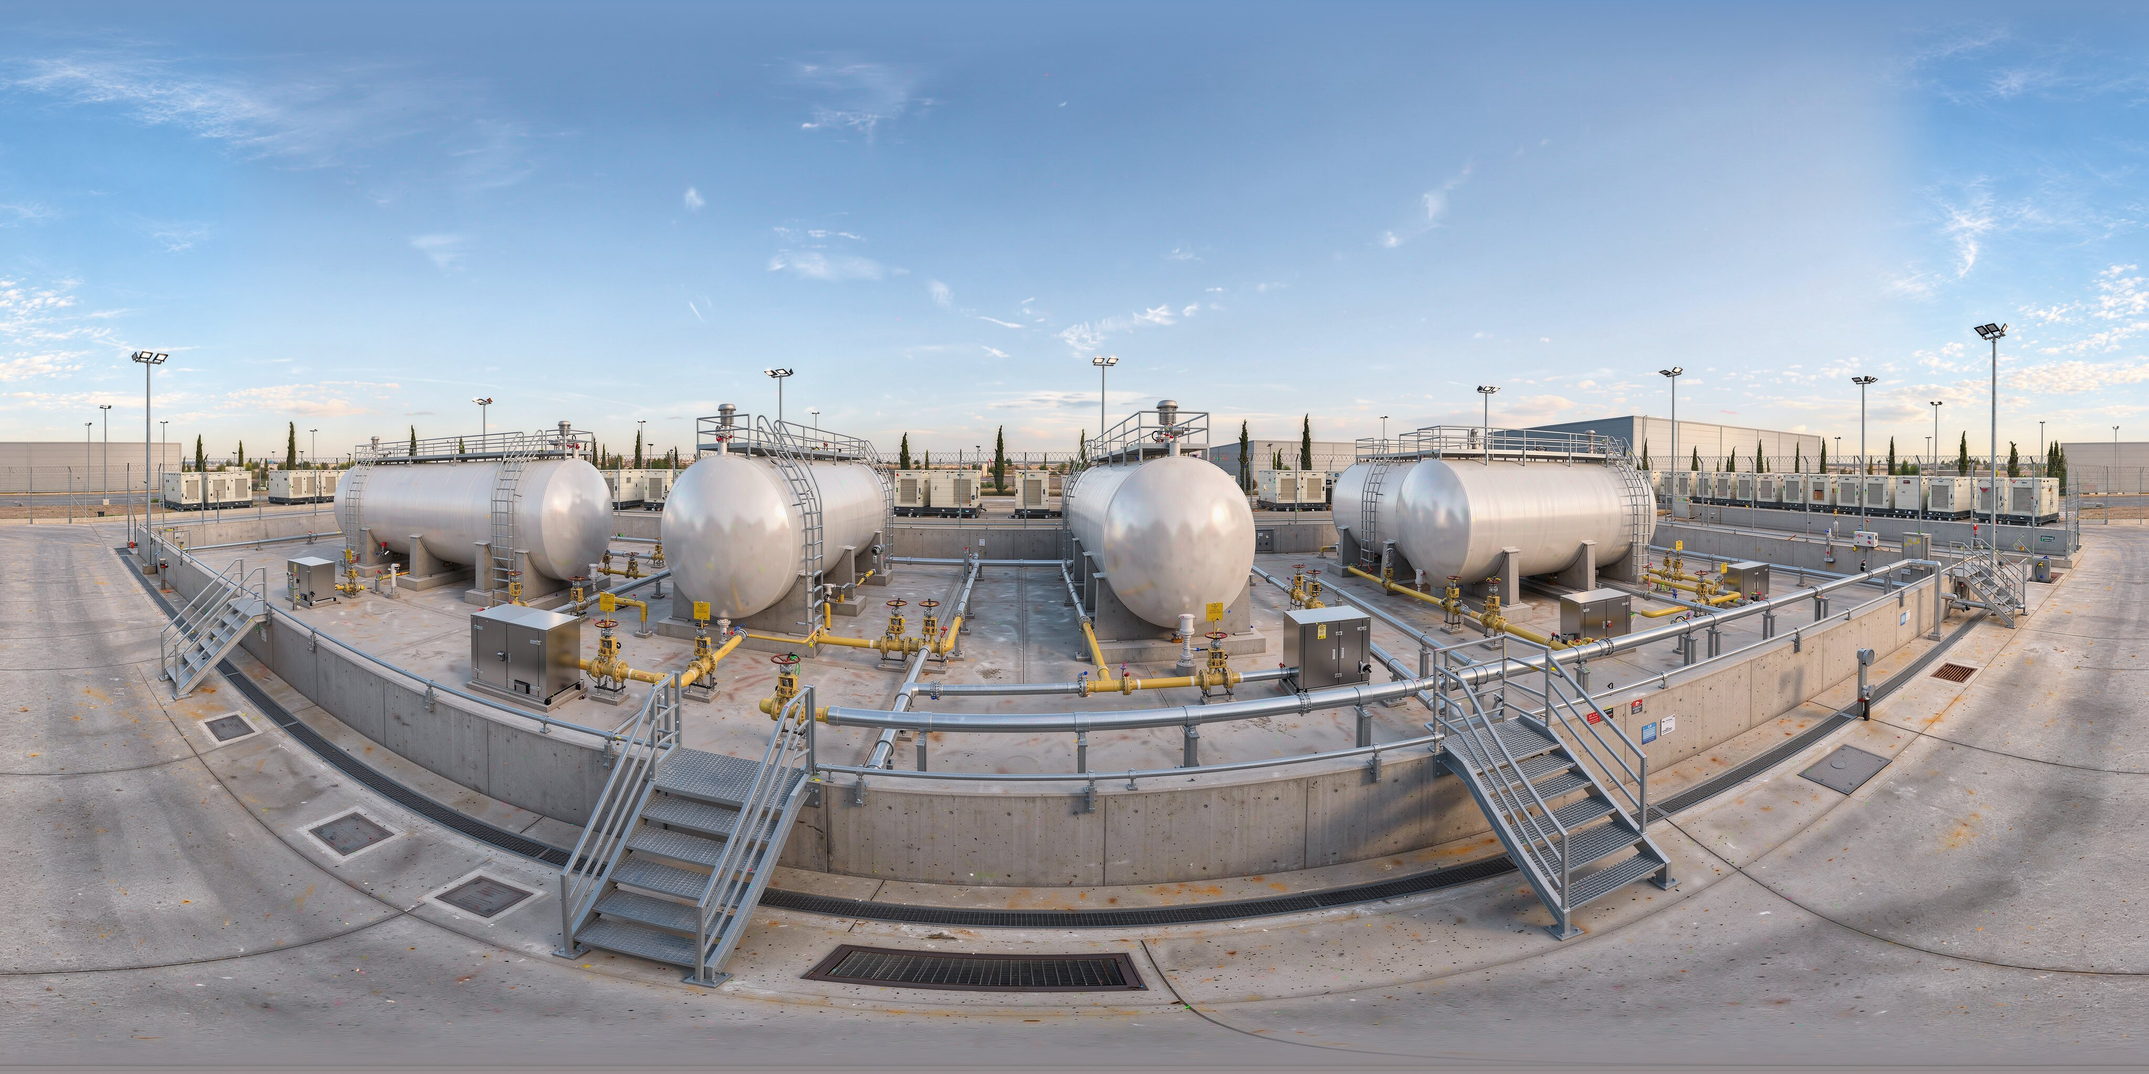
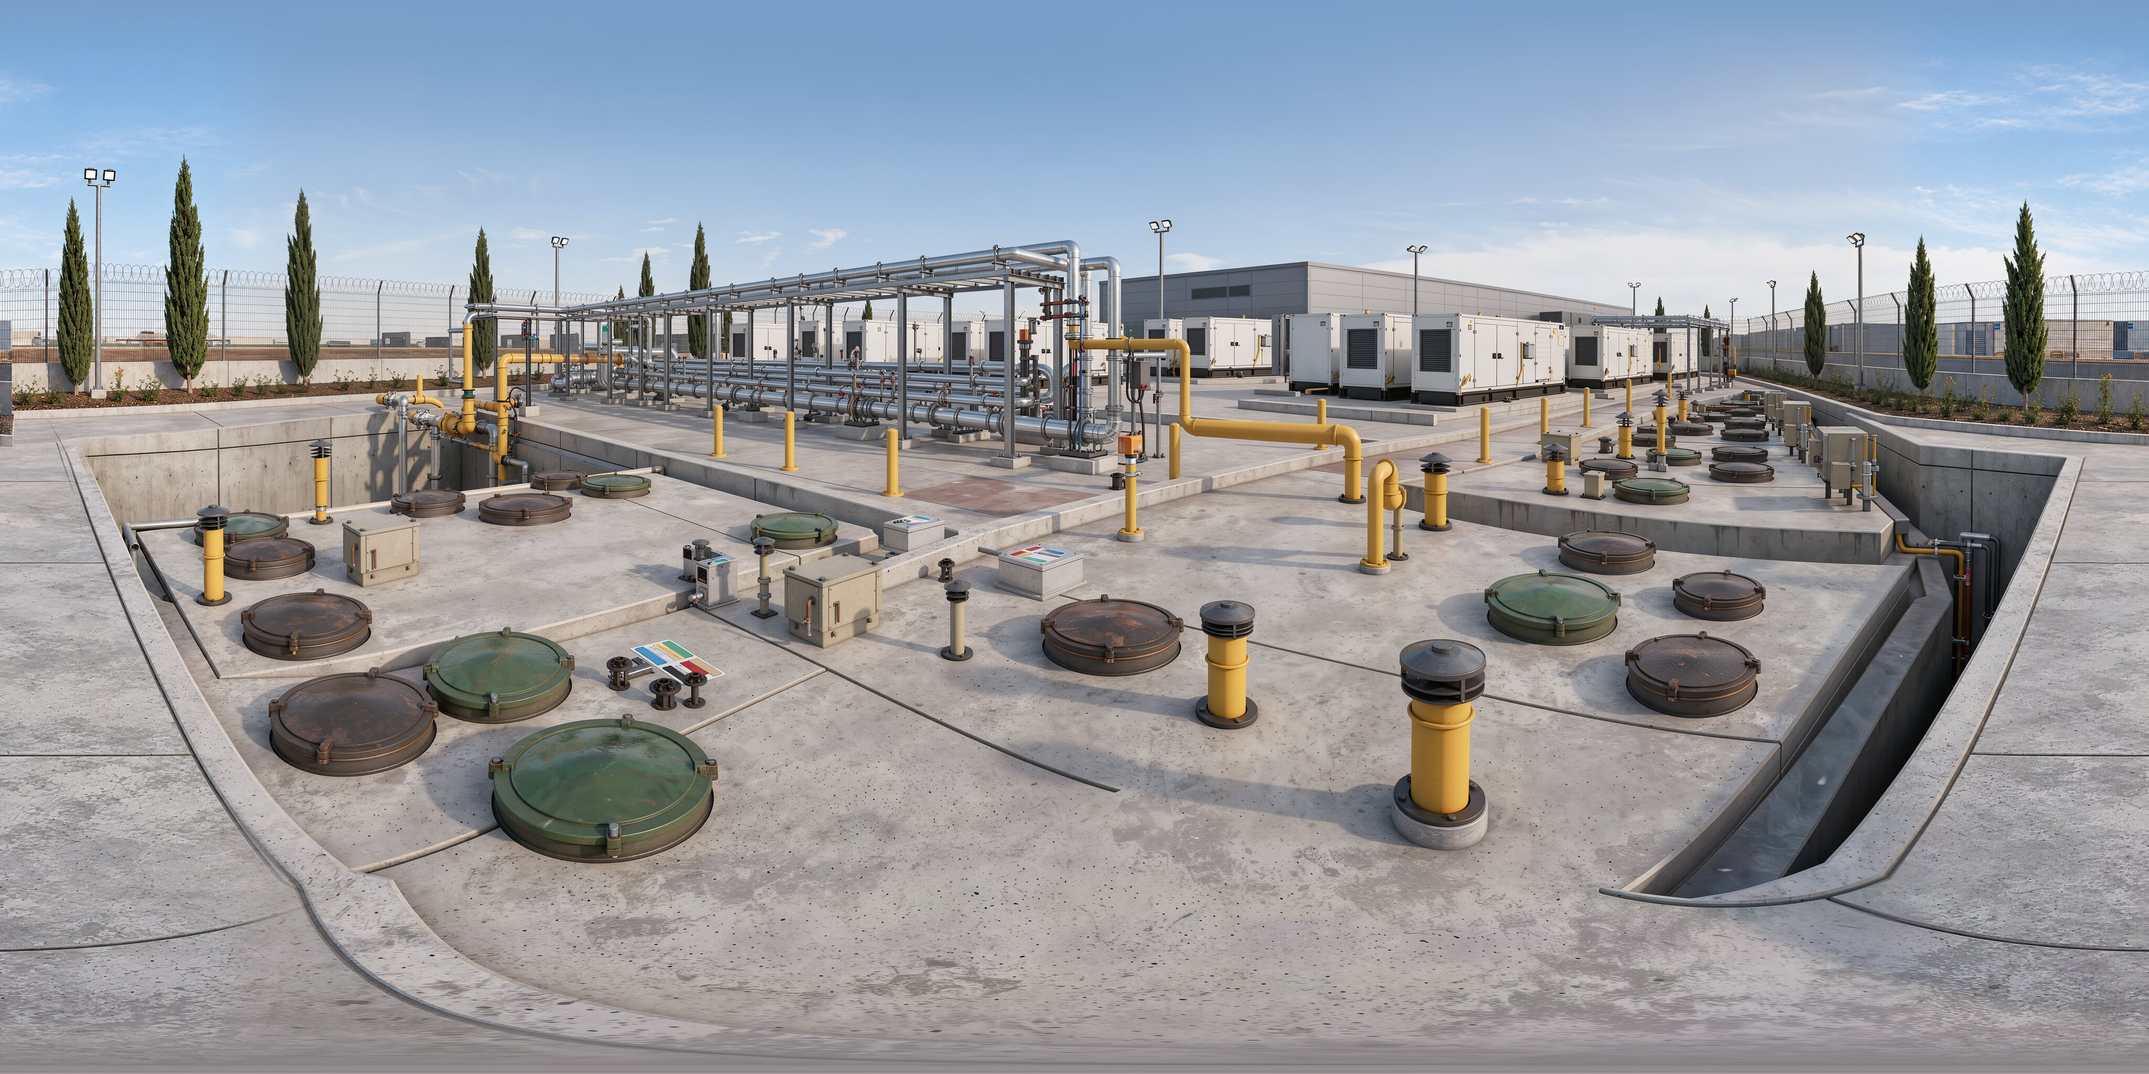
סיור 360°: מיכלים תת-קרקעיים, גרסה באנגלית וקישורי שפה
- חוות המכלים צולמה מחדש בהדמיה: רחבת בטון מעל מיכלים קבורים, עם שוחות, אוורור, נקודות מילוי ומדידה וניטור דליפות, כמו שמתואר בעמוד חוות השרתים.
- en/services/data-center-360.html: הסיור באנגלית (LTR), וקטע "360° tour" בעמוד חוות השרתים באנגלית.
- קישורי hreflang בין שתי השפות, והדף באנגלית נוסף ל-sitemap.xml.

Claude-Session: https://claude.ai/code/session_01DvXskKy3Bh4HRpRLxZMhy5

diff --git a/en/services/data-center-360.html b/en/services/data-center-360.html
@@ -1,28 +1,28 @@
 <!DOCTYPE html>
-<html lang="he" dir="rtl">
+<html lang="en" dir="ltr">
 <head>
   <meta charset="UTF-8">
   <meta name="viewport" content="width=device-width, initial-scale=1, viewport-fit=cover">
-  <title>סיור 360° בחוות גנרטורים | ש.גוטובסקי בע״מ</title>
-  <meta name="description" content="סיור 360 מעלות בהדמיה של חוות גנרטורים לחוות שרתים: חצר הגנרטורים, חוות המכלים, עמדת הפריקה, חדר המשאבות ואולם הגנרטור.">
-  <link rel="canonical" href="https://gotovski.co.il/services/data-center-360.html">
+  <title>360° tour of a generator farm | S. Gotovski Ltd.</title>
+  <meta name="description" content="A 360-degree rendered tour of a data center generator farm: the generator yard, the tank farm, the unloading bay, the pump room and the generator hall.">
+  <link rel="canonical" href="https://gotovski.co.il/en/services/data-center-360.html">
   <link rel="alternate" hreflang="he" href="https://gotovski.co.il/services/data-center-360.html">
   <link rel="alternate" hreflang="en" href="https://gotovski.co.il/en/services/data-center-360.html">
   <link rel="alternate" hreflang="x-default" href="https://gotovski.co.il/services/data-center-360.html">
   <meta property="og:type" content="website">
-  <meta property="og:locale" content="he_IL">
-  <meta property="og:site_name" content="ש.גוטובסקי בע״מ">
-  <meta property="og:title" content="סיור 360° בחוות גנרטורים">
-  <meta property="og:description" content="הדמיה: מהמכלים ועמדת הפריקה, דרך חדר המשאבות, ועד הגנרטור.">
-  <meta property="og:url" content="https://gotovski.co.il/services/data-center-360.html">
+  <meta property="og:locale" content="en_US">
+  <meta property="og:site_name" content="S. Gotovski Ltd.">
+  <meta property="og:title" content="360° tour of a generator farm">
+  <meta property="og:description" content="A rendering: from the tanks and the unloading bay, through the pump room, to the generator.">
+  <meta property="og:url" content="https://gotovski.co.il/en/services/data-center-360.html">
   <meta property="og:image" content="https://gotovski.co.il/images/tour/generator-farm-preview.webp">
   <meta name="twitter:card" content="summary_large_image">
-  <link rel="icon" href="../images/logo.png" type="image/png">
+  <link rel="icon" href="../../images/logo.png" type="image/png">
   <link rel="preconnect" href="https://fonts.googleapis.com">
   <link rel="preconnect" href="https://fonts.gstatic.com" crossorigin>
   <link href="https://fonts.googleapis.com/css2?family=Heebo:wght@400;500;700&display=swap" rel="stylesheet">
   <link rel="stylesheet" href="https://cdnjs.cloudflare.com/ajax/libs/pannellum/2.5.6/pannellum.css">
-  <link rel="preload" as="image" href="../images/tour/generator-yard.jpg">
+  <link rel="preload" as="image" href="../../images/tour/generator-yard.jpg">
   <style>
 
 :root{
@@ -34,7 +34,7 @@
 html,body{height:100%}
 body{margin:0;background:var(--onyx);color:var(--paper);font-family:var(--display);overflow:hidden}
 #pano{position:absolute;inset:0}
-.ui{direction:rtl;position:absolute;z-index:5;display:flex;gap:10px;align-items:center}
+.ui{direction:ltr;position:absolute;z-index:5;display:flex;gap:10px;align-items:center}
 .top{top:calc(14px + env(safe-area-inset-top,0px));inset-inline:16px;justify-content:space-between;align-items:flex-start;flex-wrap:wrap}
 .card{background:var(--glass);backdrop-filter:blur(10px);-webkit-backdrop-filter:blur(10px);border:1px solid var(--line);border-radius:14px;padding:12px 16px;max-width:min(420px,100%)}
 .eyebrow{font-size:11px;font-weight:700;letter-spacing:.18em;color:var(--accent-2)}
@@ -66,8 +66,8 @@ h1{margin:4px 0 2px;font-size:clamp(20px,3.2vw,28px);font-weight:700;line-height
 .hs .dot{position:absolute;left:-22px;top:-22px;width:44px;height:44px;border-radius:50%;background:rgba(15,14,18,.55);border:2px solid var(--paper);display:grid;place-items:center;box-shadow:0 0 0 6px rgba(79,187,234,.25);transition:transform .25s}
 .hs .dot svg{width:20px;height:20px;fill:none;stroke:var(--paper);stroke-width:2.2;stroke-linecap:round;stroke-linejoin:round}
 .hs:hover .dot{transform:scale(1.12);background:var(--accent)}
-.hs .lbl{position:absolute;top:30px;left:50%;transform:translateX(-50%);white-space:nowrap;direction:rtl;font:700 13px/1 var(--display);color:var(--paper);background:var(--glass);border:1px solid var(--line);border-radius:999px;padding:7px 12px}
-.mapbox{top:calc(76px + env(safe-area-inset-top,0px));left:16px}
+.hs .lbl{position:absolute;top:30px;left:50%;transform:translateX(-50%);white-space:nowrap;direction:ltr;font:700 13px/1 var(--display);color:var(--paper);background:var(--glass);border:1px solid var(--line);border-radius:999px;padding:7px 12px}
+.mapbox{top:calc(76px + env(safe-area-inset-top,0px));right:16px}
 .map{position:relative;width:220px;max-width:42vw;padding:8px}
 .map svg{display:block;width:100%;height:auto}
 .map .pt{cursor:pointer}
@@ -87,26 +87,26 @@ h1{margin:4px 0 2px;font-size:clamp(20px,3.2vw,28px);font-weight:700;line-height
   </style>
 </head>
 <body>
-<div id="pano" role="img" aria-label="תמונת 360 מעלות של חצר גנרטורים בחוות שרתים: שורות גנרטורים דיזל במכולות משני צדי כביש שירות, צנרת דלק צהובה, גדר ביטחון ומבנה חוות השרתים בקצה"></div>
+<div id="pano" role="img" aria-label="360-degree image of a data center generator farm"></div>
 <div class="ui top">
   <div class="card">
-    <div class="eyebrow">ש.גוטובסקי · תשתיות דלק לחוות שרתים</div>
-    <h1 id="scene-title">חצר הגנרטורים</h1>
-    <div class="meta"><span id="scene-desc">גנרטורי גיבוי במכולות, צנרת אספקה והחזרה לכל יחידה, ומבנה החווה בקצה הכביש.</span> <span class="badge">הדמיה · טיוטה</span></div>
+    <div class="eyebrow">S. Gotovski · Fuel systems for data centers</div>
+    <h1 id="scene-title">The generator yard</h1>
+    <div class="meta"><span id="scene-desc">Containerized backup generators, a supply and return line to each unit, and the data center building at the end of the road.</span> <span class="badge">Rendering</span></div>
   </div>
   <div class="tools">
-    <a class="back" href="data-center.html"><svg viewBox="0 0 24 24" aria-hidden="true"><path d="M5 12h14M12 5l7 7-7 7"/></svg><span>חזרה לחוות שרתים</span></a>
-    <button class="btn" id="rotate" type="button" aria-pressed="true" aria-label="סיבוב אוטומטי"><svg viewBox="0 0 24 24"><path d="M20 12a8 8 0 1 1-2.3-5.7"/><path d="M20 4v5h-5"/></svg></button>
-    <button class="btn" id="full" type="button" aria-label="מסך מלא"><svg viewBox="0 0 24 24"><path d="M4 9V4h5M20 9V4h-5M4 15v5h5M20 15v5h-5"/></svg></button>
+    <a class="back" href="data-center.html"><svg viewBox="0 0 24 24" aria-hidden="true"><path d="M19 12H5M12 19l-7-7 7-7"/></svg><span>Back to data centers</span></a>
+    <button class="btn" id="rotate" type="button" aria-pressed="true" aria-label="Auto-rotate"><svg viewBox="0 0 24 24"><path d="M20 12a8 8 0 1 1-2.3-5.7"/><path d="M20 4v5h-5"/></svg></button>
+    <button class="btn" id="full" type="button" aria-label="Full screen"><svg viewBox="0 0 24 24"><path d="M4 9V4h5M20 9V4h-5M4 15v5h5M20 15v5h-5"/></svg></button>
   </div>
 </div>
 <div class="ui mapbox">
-    <div class="card map" aria-label="תוכנית האתר">
-      <svg viewBox="0 0 220 150" role="group" aria-label="תוכנית האתר: לחצו על נקודה כדי לעבור אליה">
+    <div class="card map" aria-label="Site plan">
+      <svg viewBox="0 0 220 150" role="group" aria-label="Site plan: select a point to go there">
         <rect x="6" y="6" width="208" height="138" rx="6" fill="none" stroke="rgba(255,255,255,.35)" stroke-dasharray="4 3"/>
-        <rect x="70" y="14" width="80" height="26" rx="2" fill="rgba(255,255,255,.14)"/><text x="110" y="31" text-anchor="middle" fill="#9ea3ab" font-size="9" font-family="Heebo">מבנה החווה</text>
+        <rect x="70" y="14" width="80" height="26" rx="2" fill="rgba(255,255,255,.14)"/><text x="110" y="31" text-anchor="middle" fill="#9ea3ab" font-size="9" font-family="Heebo">Data center</text>
         <g fill="rgba(255,255,255,.22)"><rect x="40" y="52" width="40" height="8"/><rect x="40" y="66" width="40" height="8"/><rect x="40" y="80" width="40" height="8"/><rect x="140" y="52" width="40" height="8"/><rect x="140" y="66" width="40" height="8"/><rect x="140" y="80" width="40" height="8"/></g>
-        <rect x="20" y="104" width="72" height="32" rx="2" fill="none" stroke="rgba(255,255,255,.3)"/><text x="56" y="132" text-anchor="middle" fill="#9ea3ab" font-size="8" font-family="Heebo">מכלים</text>
+        <rect x="20" y="104" width="72" height="32" rx="2" fill="none" stroke="rgba(255,255,255,.3)"/><text x="56" y="132" text-anchor="middle" fill="#9ea3ab" font-size="8" font-family="Heebo">Tanks</text>
         <rect x="150" y="104" width="34" height="24" rx="2" fill="rgba(255,255,255,.14)"/>
         <path id="fov" class="fov" d=""/>
         <g id="pts"></g>
@@ -114,10 +114,10 @@ h1{margin:4px 0 2px;font-size:clamp(20px,3.2vw,28px);font-weight:700;line-height
     </div>
 </div>
 <div class="ui bottom">
-  <div class="scenes" id="scenes" role="list" aria-label="נקודות בסיור"></div>
+  <div class="scenes" id="scenes" role="list" aria-label="Tour points"></div>
   <div style="display:grid;gap:8px;justify-items:end">
-    <div class="hint" id="hint">גררו כדי להסתכל מסביב · לחצו על החצים כדי לעבור</div>
-    <div class="note">הדמיה ממוחשבת להמחשה בלבד, אינה פרויקט קיים.</div>
+    <div class="hint" id="hint">Drag to look around · select the arrows to move</div>
+    <div class="note">Computer rendering for illustration only, not an existing project.</div>
   </div>
 </div>
 <script src="https://cdnjs.cloudflare.com/ajax/libs/pannellum/2.5.6/pannellum.js"></script>
@@ -126,20 +126,20 @@ h1{margin:4px 0 2px;font-size:clamp(20px,3.2vw,28px);font-weight:700;line-height
   const reduced = matchMedia('(prefers-reduced-motion: reduce)').matches;
   // x,y: position on the site plan; north: plan heading (degrees) of the panorama's yaw 0
   const SCENES = {
-    yard:   { title: 'חצר הגנרטורים', file: 'generator-yard', x: 110, y: 70, north: 0,
-              desc: 'גנרטורי גיבוי במכולות, צנרת אספקה והחזרה לכל יחידה, ומבנה החווה בקצה הכביש.',
+    yard:   { title: 'Generator yard', file: 'generator-yard', x: 110, y: 70, north: 0,
+              desc: 'Containerized backup generators, a supply and return line to each unit, and the data center building at the end of the road.',
               links: [{ to: 'hall', yaw: 2, pitch: -3 }, { to: 'tanks', yaw: 160, pitch: -8 }] },
-    tanks:  { title: 'חוות המכלים', file: 'tank-farm', x: 56, y: 98, north: 0,
-              desc: 'מיכלי הסולר קבורים בבור בטון מתחת לרחבה. מעל כל מיכל: שוחות, אוורור, נקודות מילוי ומדידה וניטור של החלל שבין הדפנות.',
+    tanks:  { title: 'Tank farm', file: 'tank-farm', x: 56, y: 98, north: 0,
+              desc: 'The diesel tanks are buried in a concrete pit under the slab. Above each tank: manholes, vents, fill and gauging points, and monitoring of the space between the walls.',
               links: [{ to: 'yard', yaw: -60, pitch: -6 }, { to: 'unload', yaw: 120, pitch: -8 }, { to: 'pumps', yaw: 175, pitch: -6 }] },
-    unload: { title: 'עמדת פריקה למכליות', file: 'unloading-bay', x: 120, y: 132, north: 180,
-              desc: 'נקודת מילוי מקורה עם מצמדים מהירים, מד ספיקה, סינון, הארקה ותעלת ניקוז לאיסוף דליפות.',
+    unload: { title: 'Tanker unloading bay', file: 'unloading-bay', x: 120, y: 132, north: 180,
+              desc: 'A covered fill point with quick couplings, a flow meter, filtration, grounding and a drainage channel that catches spills.',
               links: [{ to: 'tanks', yaw: -15, pitch: -6 }, { to: 'yard', yaw: 80, pitch: -6 }, { to: 'pumps', yaw: -110, pitch: -8 }] },
-    pumps:  { title: 'חדר המשאבות והסינון', file: 'pump-room', x: 167, y: 116, north: 270,
-              desc: 'זוג משאבות העברה, מערכת ליטוש וסינון סולר, מגופים, אל-חוזרים ולוח בקרה עם גילוי דליפות.',
+    pumps:  { title: 'Pump and filtration room', file: 'pump-room', x: 167, y: 116, north: 270,
+              desc: 'Duplex transfer pumps, a fuel polishing and filtration skid, valves, check valves and a control panel with leak detection.',
               links: [{ to: 'unload', yaw: 0, pitch: -8 }, { to: 'hall', yaw: 178, pitch: -6 }] },
-    hall:   { title: 'אולם גנרטור', file: 'generator-hall', x: 110, y: 27, north: 0,
-              desc: 'גנרטור דיזל 2.5 מגה-וואט עם מיכל יומי, צנרת אספקה והחזרה, ומשתיק פליטה.',
+    hall:   { title: 'Generator hall', file: 'generator-hall', x: 110, y: 27, north: 0,
+              desc: 'A 2.5 MW diesel generator with its day tank, supply and return lines, and exhaust silencer.',
               links: [{ to: 'yard', yaw: -150, pitch: -6 }, { to: 'pumps', yaw: 150, pitch: -6 }] }
   };
   const order = ['yard', 'tanks', 'unload', 'pumps', 'hall'];
@@ -148,13 +148,13 @@ h1{margin:4px 0 2px;font-size:clamp(20px,3.2vw,28px);font-weight:700;line-height
     div.classList.add('hs');
     div.innerHTML = '<span class="dot">' + arrow + '</span><span class="lbl"></span>';
     div.querySelector('.lbl').textContent = args.label;
-    div.setAttribute('role', 'button'); div.setAttribute('aria-label', 'מעבר אל ' + args.label);
+    div.setAttribute('role', 'button'); div.setAttribute('aria-label', 'Go to ' + args.label);
   };
   const scenes = {};
   for (const id of order) {
     const sc = SCENES[id];
     scenes[id] = {
-      type: 'equirectangular', panorama: '../images/tour/' + sc.file + '.jpg', hfov: 100, minPitch: -75, maxPitch: 90,
+      type: 'equirectangular', panorama: '../../images/tour/' + sc.file + '.jpg', hfov: 100, minPitch: -75, maxPitch: 90,
       hotSpots: sc.links.map(l => ({ type: 'scene', sceneId: l.to, yaw: l.yaw, pitch: l.pitch, cssClass: 'hs-wrap', createTooltipFunc: tip, createTooltipArgs: { label: SCENES[l.to].title }, targetYaw: 'sameAzimuth' }))
     };
   }
@@ -167,7 +167,7 @@ h1{margin:4px 0 2px;font-size:clamp(20px,3.2vw,28px);font-weight:700;line-height
   for (const id of order) {
     const b = document.createElement('button');
     b.className = 'scene'; b.type = 'button'; b.setAttribute('role', 'listitem'); b.dataset.id = id;
-    b.innerHTML = '<img alt="" src="../images/tour/thumb-' + SCENES[id].file + '.jpg"><span></span>';
+    b.innerHTML = '<img alt="" src="../../images/tour/thumb-' + SCENES[id].file + '.jpg"><span></span>';
     b.querySelector('span').textContent = SCENES[id].title;
     b.addEventListener('click', () => viewer.loadScene(id));
     list.appendChild(b);
@@ -214,6 +214,6 @@ h1{margin:4px 0 2px;font-size:clamp(20px,3.2vw,28px);font-weight:700;line-height
   document.getElementById('full').addEventListener('click', () => { try { viewer.toggleFullscreen(); } catch (e) {} });
 })();
 </script>
-<noscript><p style="position:absolute;inset:auto 16px 16px;color:#eeece7">כדי לראות את הסיור צריך להפעיל JavaScript בדפדפן.</p></noscript>
+<noscript><p style="position:absolute;inset:auto 16px 16px;color:#eeece7">Turn on JavaScript in your browser to see the tour.</p></noscript>
 </body>
 </html>

diff --git a/en/services/data-center.html b/en/services/data-center.html
@@ -121,6 +121,22 @@
 <a class="tbtn tbtn--dark" href="#cutaway">The fuel path in a data center <span aria-hidden="true" class="arr"><svg aria-hidden="true" fill="none" stroke="currentColor" stroke-linecap="round" stroke-linejoin="round" stroke-width="1.8" viewbox="0 0 24 24"><path d="M19 12H5M12 19l-7-7 7-7"></path></svg></span></a>
 </div>
 </section>
+<!-- ===== 360° rendered tour ===== -->
+<section aria-labelledby="tour-title" class="section section--dark tour360">
+<div class="container">
+<div class="section-head">
+<span class="kicker">Rendering · 360° tour</span>
+<h2 id="tour-title">Walk through the generator farm, <em>from the tanks to the generator</em></h2>
+<p>Five points: the generator yard, the tank farm, the tanker unloading bay, the pump room and the generator hall. Drag to look around, and select the arrows to move.</p>
+</div>
+<a class="tour360__card" href="data-center-360.html">
+<img alt="Rendering of a data center generator yard: rows of containerized generators and yellow fuel piping" decoding="async" height="900" loading="lazy" sizes="(max-width: 1200px) 92vw, 1140px" src="../../images/tour/generator-farm-preview.webp" srcset="../../images/tour/generator-farm-preview-480.webp 480w, ../../images/tour/generator-farm-preview-960.webp 960w, ../../images/tour/generator-farm-preview.webp 1600w" width="1600"/>
+<span aria-hidden="true" class="tour360__badge">360°</span>
+<span class="tour360__cta">Start the 360° tour <svg aria-hidden="true" fill="none" stroke="currentColor" stroke-linecap="round" stroke-linejoin="round" stroke-width="1.8" viewBox="0 0 24 24"><path d="M5 12h14M12 5l7 7-7 7"/></svg></span>
+</a>
+<p class="tour360__note">Computer rendering for illustration only, not an existing project.</p>
+</div>
+</section>
 <section aria-labelledby="cut-title" class="section section--tight cut" id="cutaway">
 <div class="container">
 <div class="section-head">
